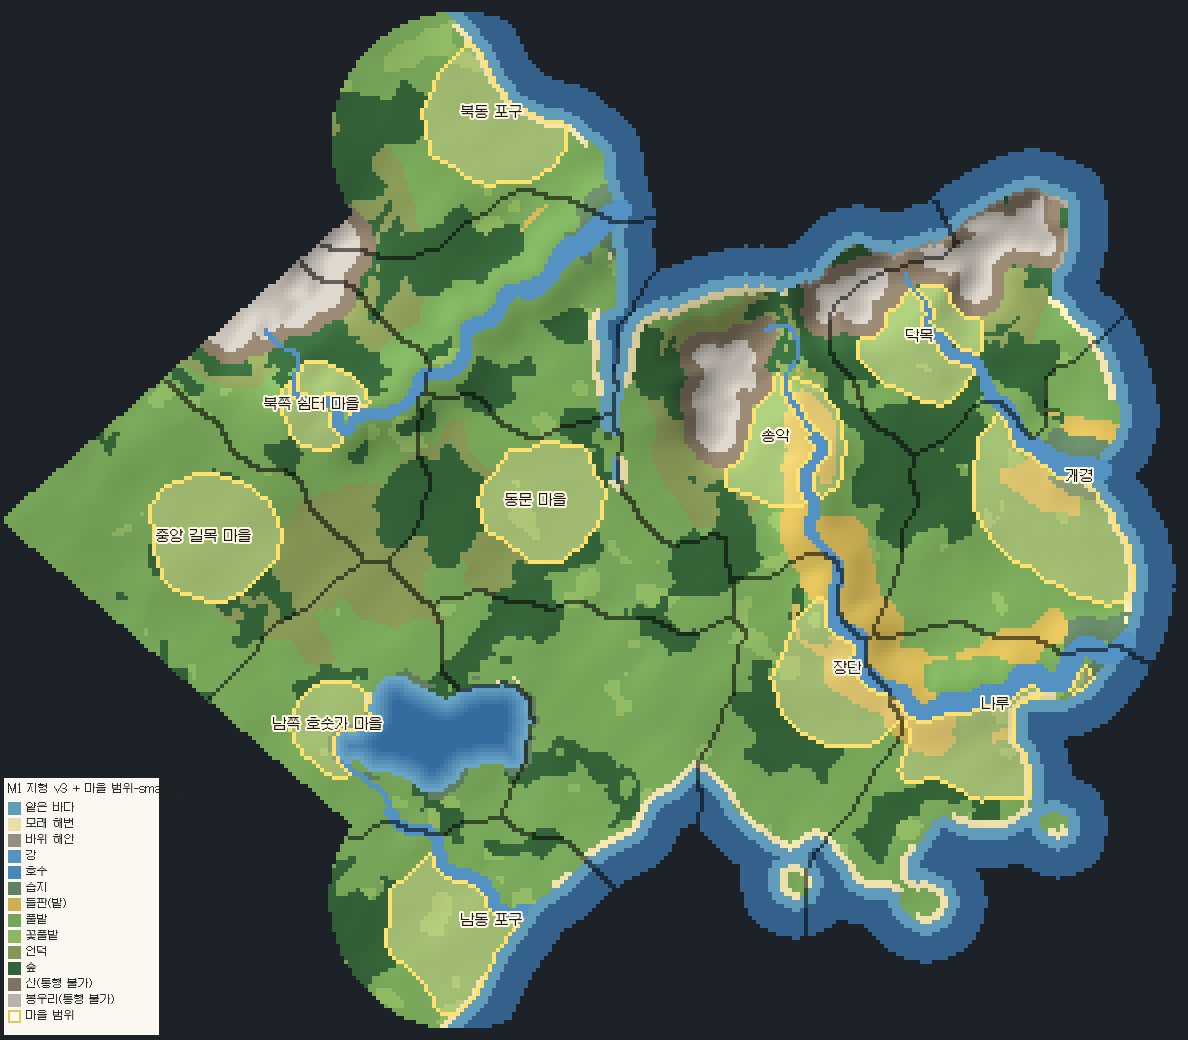
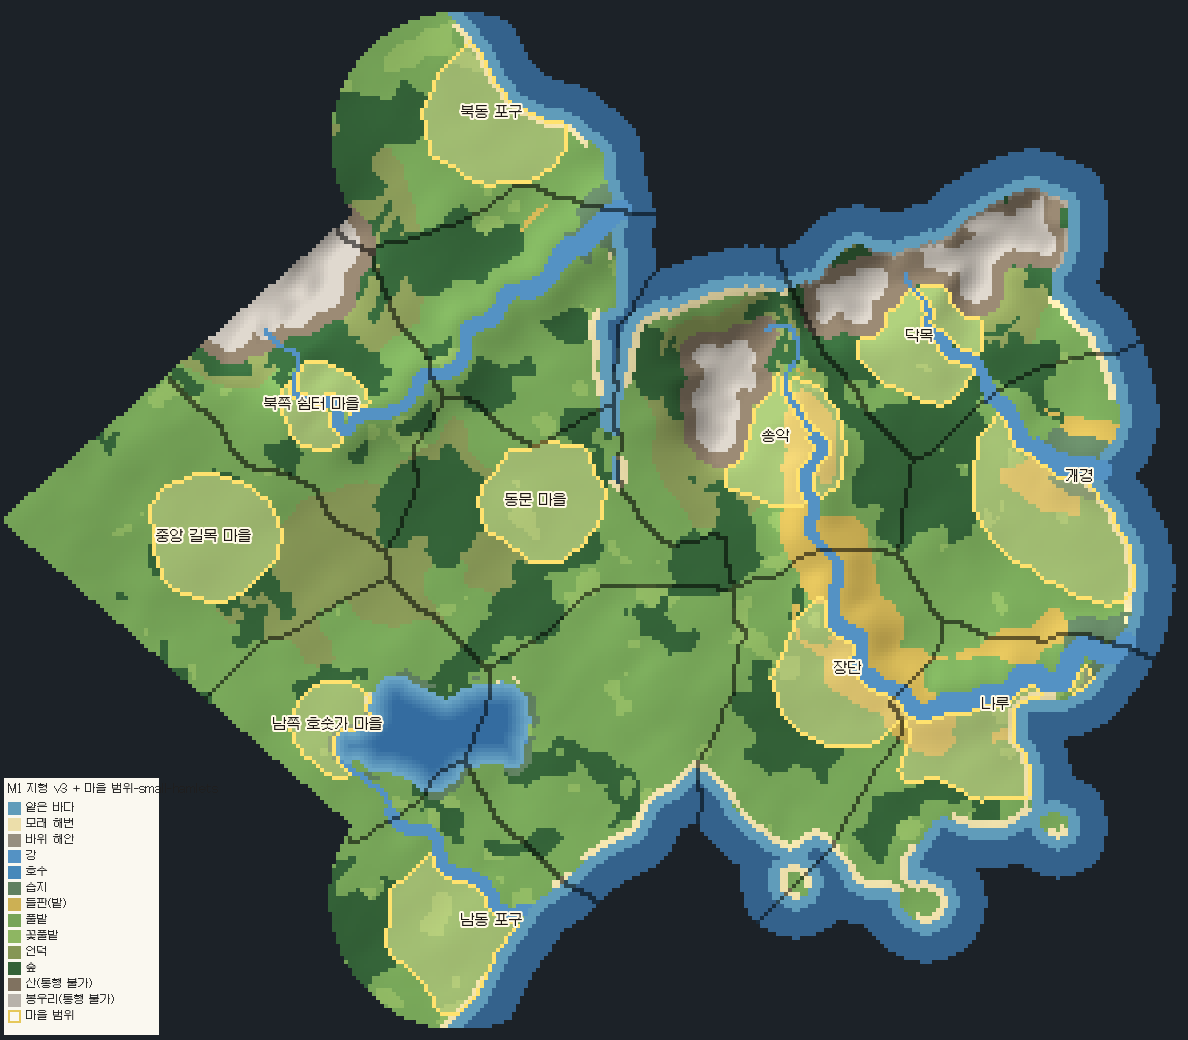
M1 v5: map boundaries from villages and roads; roads drawn above village tint
Claude-Session: https://claude.ai/code/session_01LeGdCGGAkPbpRa1d2kF6Yd

diff --git a/Tools/WorldLayout/terrain_v3.py b/Tools/WorldLayout/terrain_v3.py
@@ -361,20 +361,32 @@ def partition(layout,w,road=None):
     passable=w['passable'];village=w['village'];village_info=w['villages']
     # 5) 맵 경계(v4): 마을(이동 구역은 쉼터·중간 지점)을 씨앗으로, 지형을 따라 퍼지는 거리로 땅을 나눈다.
     #    강·산을 건너는 비용을 크게 해 경계가 강·산줄기·숲 가장자리를 따르게 하고, 면적은 원래 목표에 맞춘다.
-    step_cost=np.ones((H,W));step_cost[t==LAKE]=25;step_cost[t==RIVER]=25;step_cost[np.isin(t,[MOUNTAIN,PEAK])]=20;step_cost[t==FOREST]=2.6
-    step_cost[t==MARSH]=4;step_cost[t==HILL]=2.2;step_cost[sea]=1.5
-    if road is not None:step_cost[road]=.45   # 길을 따라 빨리 퍼짐: 경계가 길 중간에서 길을 가로지르게
+    # 경계는 길과 마을 기준(2026-10-28 은샘): 지형과 상관없이 같은 거리로 퍼지되 길 위는 빨리 퍼진다.
+    # 그래서 맵은 마을과 그 마을로 이어지는 길을 중심으로 잡히고, 경계는 두 마을 사이 길의 중간에서 길을 가로지른다.
+    rinfo=road;road=road['center'] if isinstance(road,dict) else road
+    step_cost=np.ones((H,W))
+    if road is not None:step_cost[road]=.35
     targets={k:layout.maps[k]['area'] for k in keys}
     seeds={}
     for i,k in enumerate(keys):
         v=next((j for j,tw in enumerate(towns) if tw['key']==k or tw.get('hamlet')==k),None)
         if v is not None:seeds[k]=vlabel==v
         else:
-            pair=next(kk for kk,vv in VIA.items() if vv==k);a1,b1=sorted(pair)
-            ca=village_info[[tw['key'] for tw in towns].index(a1)]['center'];cb=village_info[[tw['key'] for tw in towns].index(b1)]['center']
-            my,mx=idx(int((ca[0]+cb[0])/2),int((ca[1]+cb[1])/2))
-            c=np.argwhere(passable&(region_of=='east')&~village);c=c[np.argmin(((c-[my,mx])**2).sum(1))]
-            sm=np.zeros((H,W),bool);sm[max(0,c[0]-2):c[0]+3,max(0,c[1]-2):c[1]+3]=True;seeds[k]=sm&owned
+            pair=next(kk for kk,vv in VIA.items() if vv==k)
+            sm=np.zeros((H,W),bool)
+            if isinstance(rinfo,dict):
+                # 이동 구역 맵은 그 구간 길의 가운데 부분(마을 밖)을 씨앗으로
+                for rec,path in zip(rinfo['records'],rinfo['paths']):
+                    if frozenset((rec['fromKey'],rec['toKey']))==pair:
+                        outside=[p_ for p_ in path if not village[p_]];n_=len(outside)
+                        for p_ in outside[int(n_*.3):int(n_*.7)+1]:sm[p_]=True
+            if not sm.any():
+                a1,b1=sorted(pair)
+                ca=village_info[[tw['key'] for tw in towns].index(a1)]['center'];cb=village_info[[tw['key'] for tw in towns].index(b1)]['center']
+                my,mx=idx(int((ca[0]+cb[0])/2),int((ca[1]+cb[1])/2))
+                c=np.argwhere(passable&(region_of=='east')&~village);c=c[np.argmin(((c-[my,mx])**2).sum(1))]
+                sm[max(0,c[0]-2):c[0]+3,max(0,c[1]-2):c[1]+3]=True
+            seeds[k]=sm&owned
     def geodesic(seed):
         dist=np.full((H,W),np.inf);q=[]
         for p in zip(*np.nonzero(seed)):dist[p]=0;q.append((0.0,p))
@@ -388,8 +400,6 @@ def partition(layout,w,road=None):
                 v=g+math.hypot(dy,dx)*(step_cost[p]+step_cost[n])/2
                 if v<dist[n]:dist[n]=v;heapq.heappush(q,(v,n))
         return dist
-    # 호수는 한 맵에 통째로: 호숫가 마을이 있는 맵의 씨앗에 호수를 더한다
-    if 'east/남쪽 내륙길' in seeds and w.get('lake') is not None:seeds['east/남쪽 내륙길']=seeds['east/남쪽 내륙길']|w['lake']
     D=np.stack([geodesic(seeds[k]) for k in keys])
     regmask=np.stack([region_of==k.split('/')[0] for k in keys])
     wgt=np.zeros(len(keys))
@@ -507,13 +517,13 @@ def render(w,path,road=None,scale=4,title='',tint=False):
         k_=np.clip(dep/6,0,1)[lk_,None]
         rgb[lk_]=np.array((118,178,206))*(1-k_)+np.array((52,108,160))*k_
     rgb[landish]*=shade[landish,None]
-    if road is not None:
-        rgb[road['road']&(t==RIVER)]=(150,110,70)          # 다리
-        rgb[road['road']&(t!=RIVER)]=(198,168,120)
     # 마을 범위: 옅게 덮고 테두리
     vm=w['village'];rgb[vm]=rgb[vm]*.7+np.array((255,236,170))*.3
     edge=vm&~ndimage.binary_erosion(vm)
     rgb[edge]=(255,226,110)
+    if road is not None:
+        rgb[road['road']&(t==RIVER)]=(150,110,70)          # 다리
+        rgb[road['road']&(t!=RIVER)]=(176,140,92)
     # 맵 경계
     mid=w['mapid'];b=np.zeros((H,W),bool)
     b[:,1:]|=(mid[:,1:]!=mid[:,:-1])&(mid[:,1:]>=0)&(mid[:,:-1]>=0);b[1:,:]|=(mid[1:,:]!=mid[:-1,:])&(mid[1:,:]>=0)&(mid[:-1,:]>=0)
@@ -557,7 +567,7 @@ def main():
     land_before=sum(1 for c in layout.land if c in layout.owners)
     assert int(w['land'].sum())==land_before,'육지 면적이 바뀜'
     r=roads(layout,w) if a.roads else None
-    partition(layout,w,r['center'] if r else None)
+    partition(layout,w,r)
     counts={NAMES[k]:int((w['t']==k).sum()) for k in range(1,16)}
     render(w,OUT/f'terrain-villages{sfx}.png',title='M1 지형 v3 + 마을 범위'+sfx)
     report=dict(seed=SEED,landCells=land_before,classCounts=counts,rivers=w['rivers'],villages=w['villages'],maps=w['maps'])
